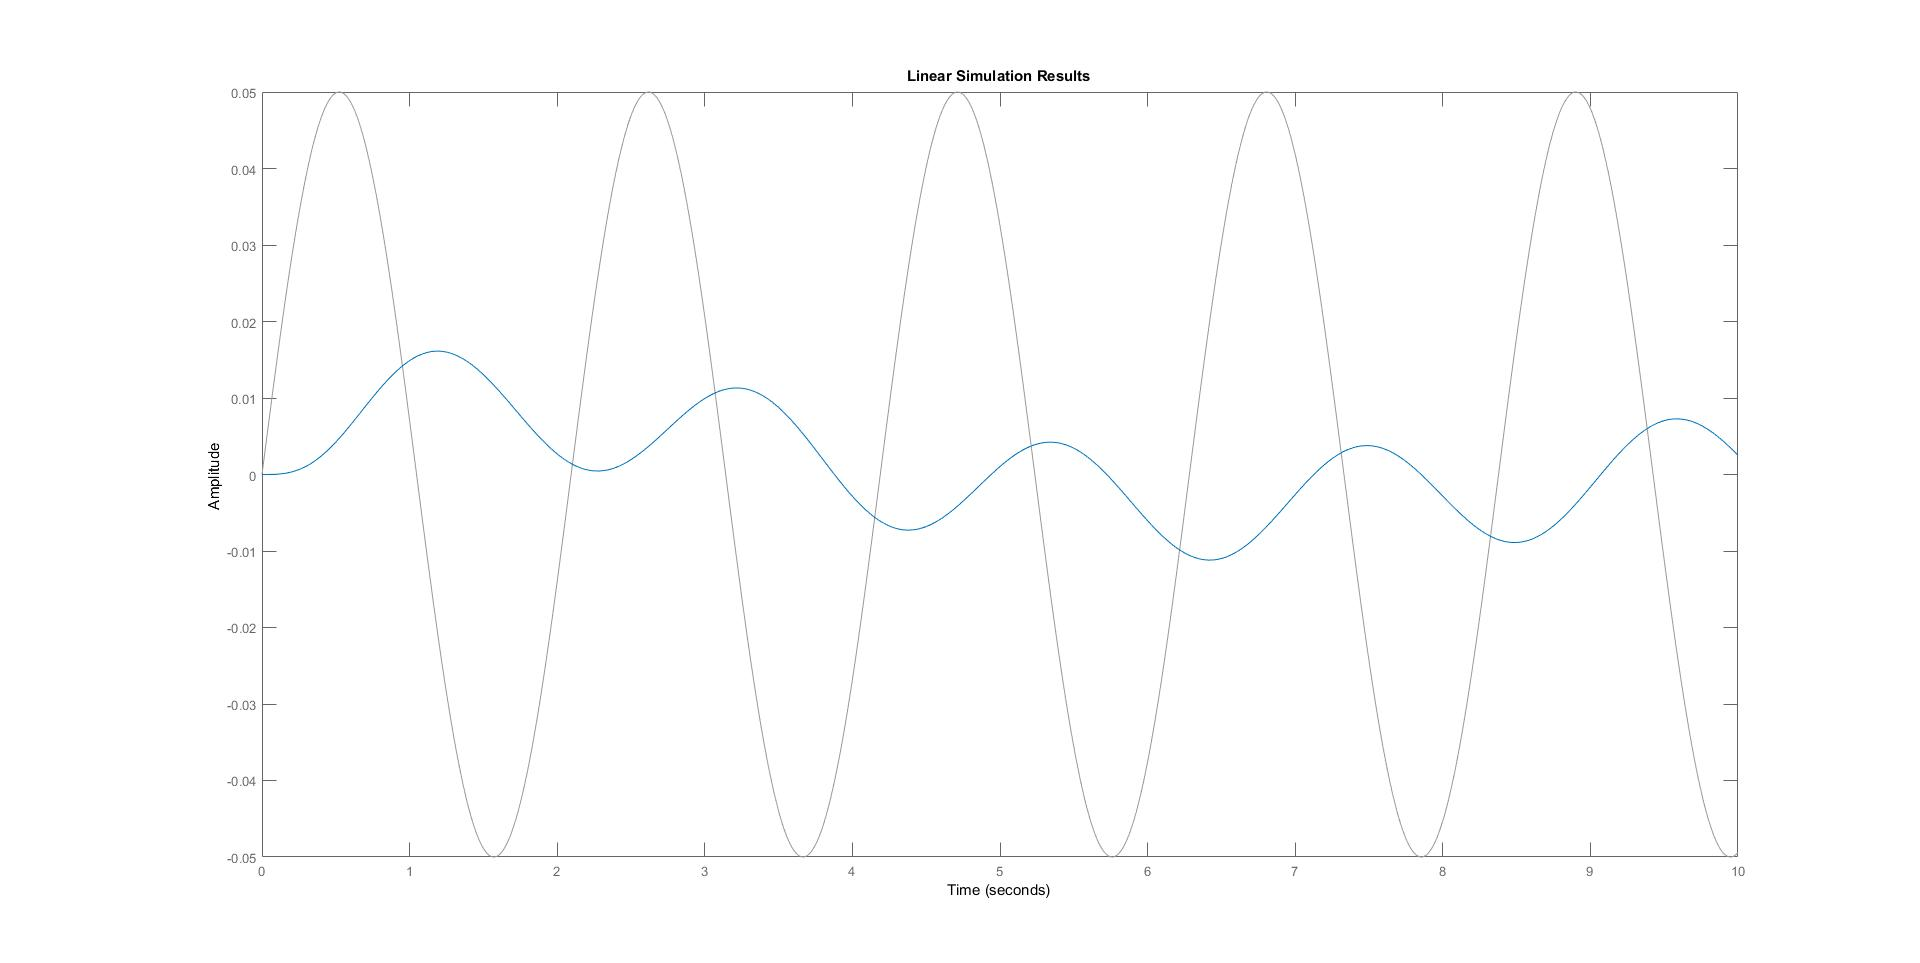
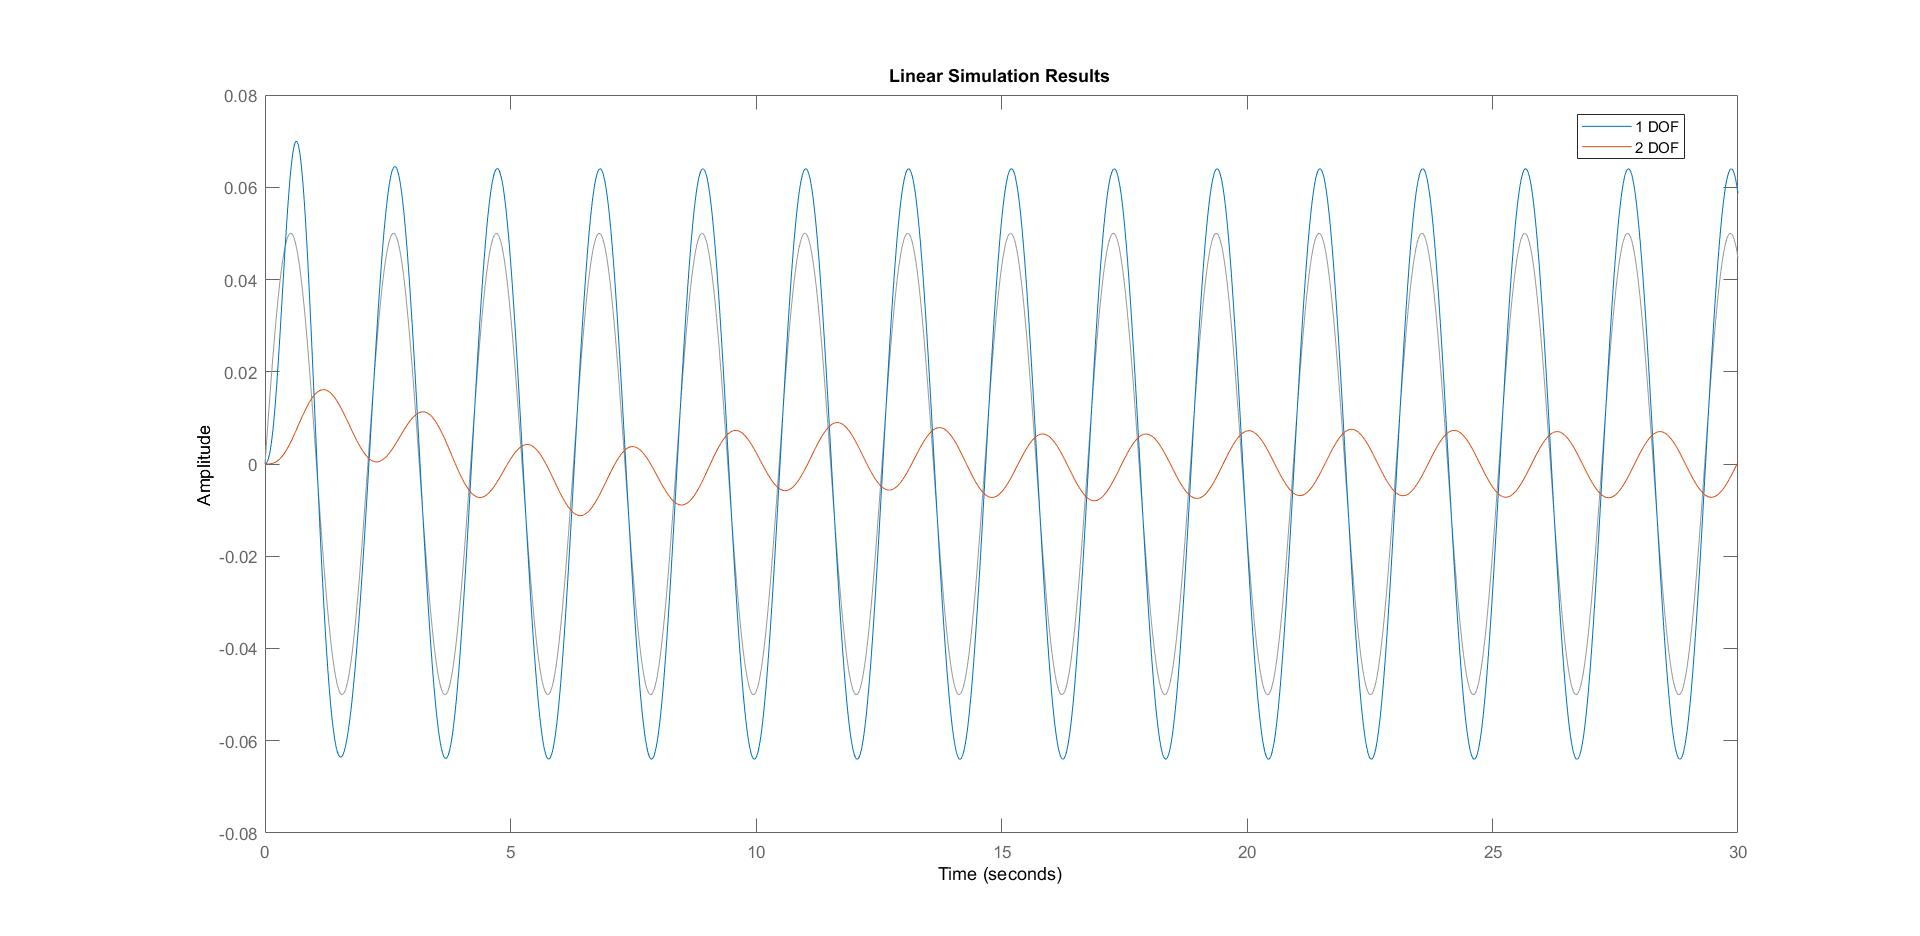
qw

diff --git a/task1_1.m b/task1_1.m
@@ -1,4 +1,7 @@
+clear all;
 %%TASK 1.1
+%set(findall(gcf,'type','line'), 'DefaultLineLineWidth', 2);
+
 m_p = 0.16; %kg
 c_p = 0.4; %Ns/m
 k_p = 6.32; %N/m
@@ -12,38 +15,44 @@ H = tf([0,2*zeta*w_n,w_n^2],[1,2*zeta*w_n,w_n^2])
 H1 = tf([0,2*zeta1*w_n,w_n^2],[1,2*zeta1*w_n,w_n^2])
 % fr= 0:0.01:100;
 % [mag,phase,wout] = bode(H1,fr);
-figure(1)
+figure()
 bode(H);
 hold on;
+set(findall(gcf,'type','line'), 'LineWidth', 2);
 
 
-%% task 1.3
 
+% % %% task 1.3
+% 
 % %% sine excitation
-% t = 0:0.01:10;
-% excitation_sin = 0.05*sin(3*t);
-% 
-% % figure()
-% % plot(t,excitation_sin)
-% 
-% figure()
-% lsim(H,excitation_sin,t) % sine excitation
-%  %% Impulse
-% stepinput = 0.05*ones([1 length(t)]);
-% for i = 101:length(t)
-%    stepinput(i) = 0; 
-% end
-% 
-% figure()
-% lsim(H,stepinput,t) % impulse excitation
-% 
-%  %%PSD
-% w = 0:25;
-% PSD = (4.028e-7)./((2.88e-4)+(0.68*w.^2)+w.^4);
-% Hfreqdomain = freqresp(H,w);
-% H = abs(Hfreqdomain(:))';
-% PSD = H.^2.*PSD;
-% 
-% semilogy(w,PSD)
+t = 0:0.01:10;
+excitation_sin = 0.05*sin(3*t);
 
+% figure()
+% plot(t,excitation_sin)
 
+figure()
+lsim(H,excitation_sin,t) % sine excitation
+set(findall(gcf,'type','line'), 'LineWidth', 2);
+
+ %% Impulse
+stepinput = 0.05*ones([1 length(t)]);
+for i = 101:length(t)
+   stepinput(i) = 0; 
+end
+
+figure()
+lsim(H,stepinput,t) % impulse excitation
+set(findall(gcf,'type','line'), 'LineWidth', 2);
+% 
+ %%PSD
+w = 0:25;
+PSD = (4.028e-7)./((2.88e-4)+(0.68*w.^2)+w.^4);
+Hfreqdomain = freqresp(H,w);
+H = abs(Hfreqdomain(:))';
+PSD = H.^2.*PSD;
+
+figure()
+semilogy(w,PSD)
+
+set(findall(gcf,'type','line'), 'LineWidth', 2);

diff --git a/task6_2ComparisonBode.m b/task6_2ComparisonBode.m
@@ -10,9 +10,38 @@ zeta1 = c_p1/(2*sqrt(k_p*m_p));
 %%TASK 1.3
 H0 = tf([0,2*zeta*w_n,w_n^2],[1,2*zeta*w_n,w_n^2]);
 H1 = tf([0,2*zeta1*w_n,w_n^2],[1,2*zeta1*w_n,w_n^2]);
-% fr= 0:0.01:100;
-% [mag,phase,wout] = bode(H1,fr);
-% bode(H,H1);
+
+
+% sine excitation
+t = 0:0.01:30;
+excitation_sin = 0.05*sin(3*t);
+
+figure(1)
+lsim(H0,excitation_sin,t) % sine excitation
+hold on;
+
+%% Impulse
+stepinput = 0.05*ones([1 length(t)]);
+for i = 101:length(t)
+   stepinput(i) = 0; 
+end
+
+figure(2)
+lsim(H0,stepinput,t) % impulse excitation
+hold on;
+
+%% PSD
+w = 0:0.01:25;
+PSD = (4.028e-7)./((2.88e-4)+(0.68*w.^2)+w.^4);
+H0freqdomain = freqresp(H0,w);
+H0 = abs(H0freqdomain(:))';
+PSD = H0.^2.*PSD;
+
+figure(3)
+semilogy(w,PSD);
+hold on;
+xlabel('Frequency (Hz)')
+ylabel('Amplitude')
 
 cs = 0.05;
 ms = 0.16;
@@ -32,5 +61,33 @@ s = tf('s');
 H = (-kp-cp*s)/(ks+cs*s+((ks+cs*s+ms*s^2)/(ks+cs*s))*(-ks-cs*s-kp-cp*s-mp*s^2));
 % H = tf(cs*cp*s^2+kp*cs*s+cp*ks*s+ks*kp,(ms*s^2+cs*s+ks)*(mp*s^2+cp*s+kp));
 
-bode(H0,H)
-legend('Single DoF System','Two DoF System')
+% sine excitation
+t = 0:0.01:30;
+excitation_sin = 0.05*sin(3*t);
+
+figure(1)
+lsim(H,excitation_sin,t) % sine excitation
+hold on;
+
+%% Impulse
+stepinput = 0.05*ones([1 length(t)]);
+for i = 101:length(t)
+   stepinput(i) = 0; 
+end
+
+figure(2)
+lsim(H,stepinput,t) % impulse excitation
+hold on;
+
+%% PSD
+w = 0:0.01:25;
+PSD = (4.028e-7)./((2.88e-4)+(0.68*w.^2)+w.^4);
+Hfreqdomain = freqresp(H,w);
+H = abs(Hfreqdomain(:))';
+PSD = H.^2.*PSD;
+
+figure(3)
+semilogy(w,PSD);
+hold on;
+xlabel('Frequency (Hz)')
+ylabel('Amplitude')
